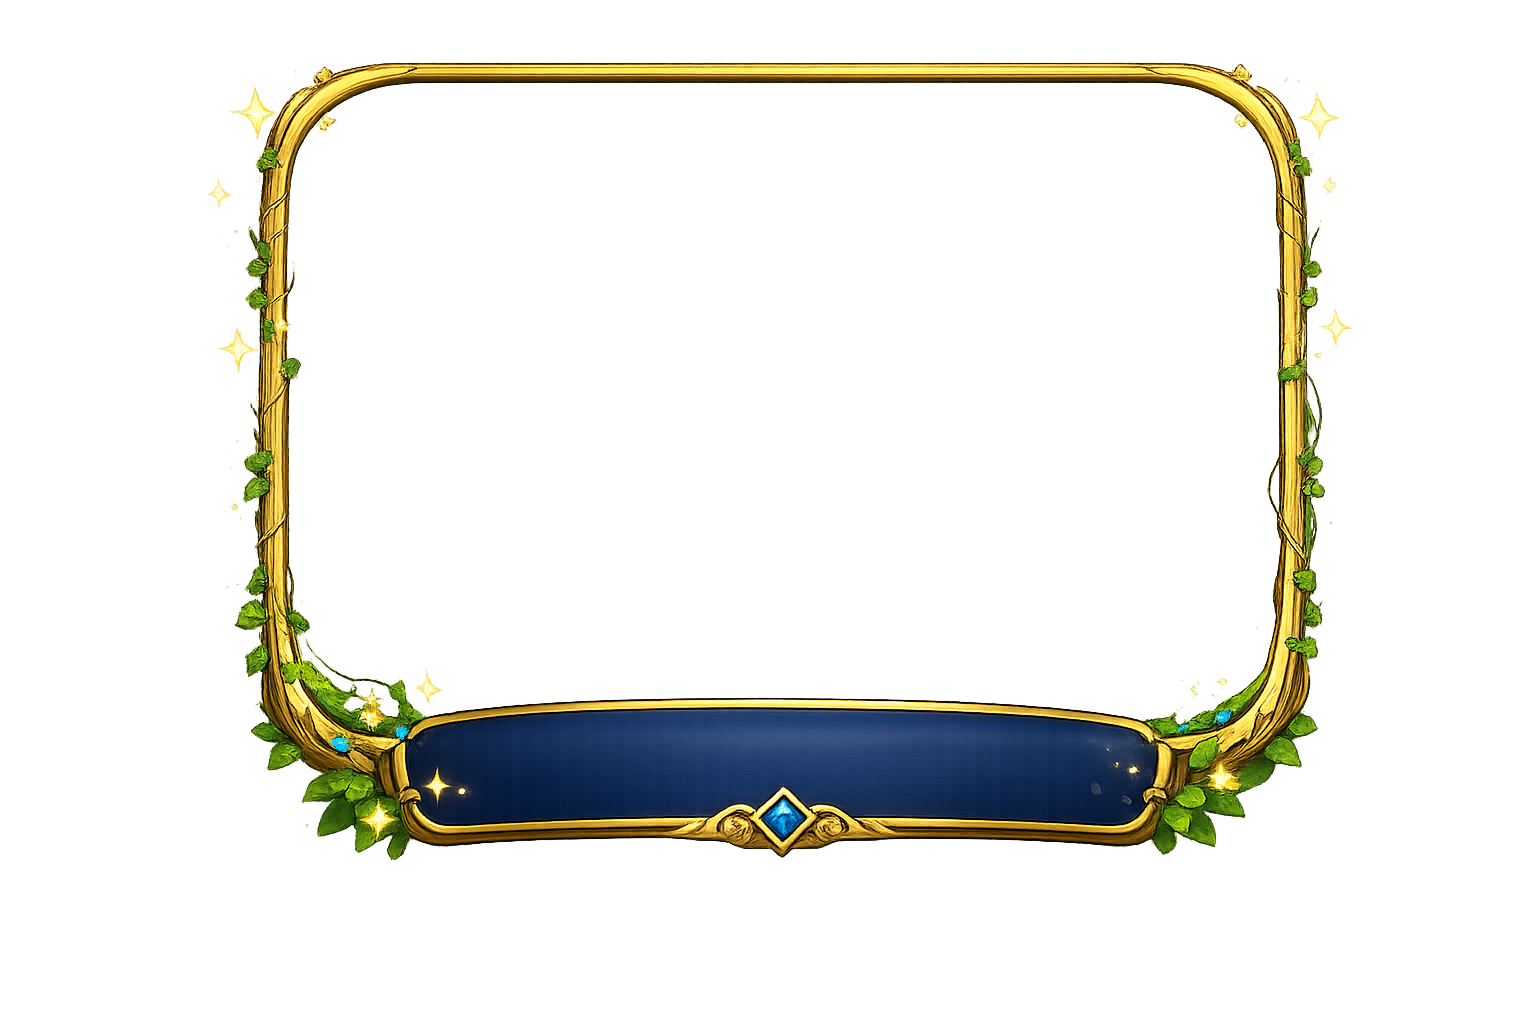
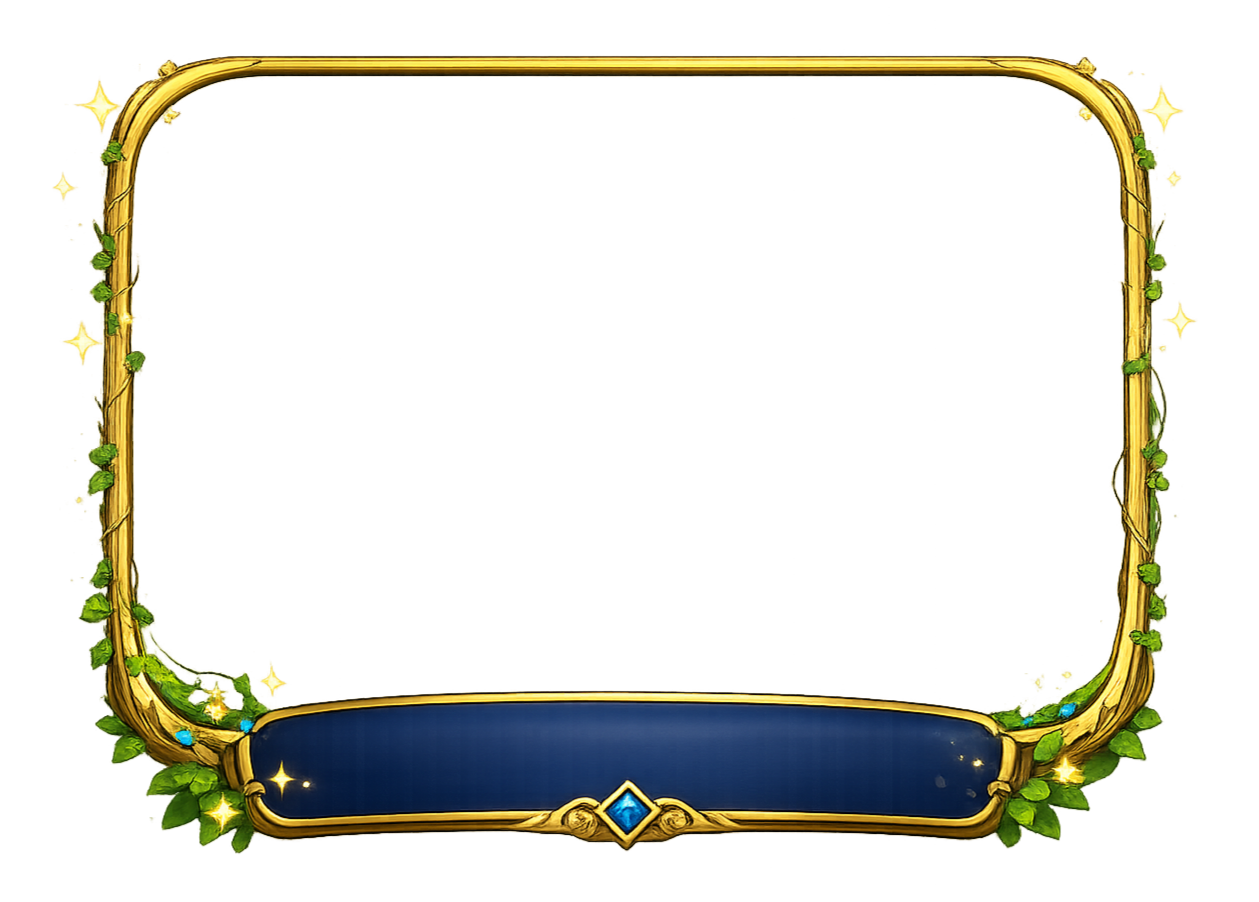
committee page finalize

Changed region(s): [[0.031, 0.0621, 0.9603, 0.9623]]

diff --git a/app/committee/components/MemberCard.tsx b/app/committee/components/MemberCard.tsx
@@ -2,7 +2,25 @@
 
 import Image from "next/image";
 import { motion } from "framer-motion";
+import { useEffect, useState } from "react";
 import type { CommitteeMember } from "../committeeConfig";
+
+/** Tracks whether the viewport is below Tailwind's `sm` breakpoint (640px) */
+function useIsMobile() {
+  const [isMobile, setIsMobile] = useState(
+    () => typeof window !== "undefined" && window.matchMedia("(max-width: 639px)").matches
+  );
+
+  useEffect(() => {
+    const mq = window.matchMedia("(max-width: 639px)");
+    const update = () => setIsMobile(mq.matches);
+    update();
+    mq.addEventListener("change", update);
+    return () => mq.removeEventListener("change", update);
+  }, []);
+
+  return isMobile;
+}
 
 interface MemberCardProps {
   member: CommitteeMember;
@@ -81,9 +99,11 @@ interface ExpandedCardProps {
 }
 
 export function ExpandedCard({ member, index, topicIndex, onClose }: ExpandedCardProps) {
+  const isMobile = useIsMobile();
+
   return (
     <motion.div
-      className="fixed inset-0 z-50 flex items-center justify-center"
+      className="fixed inset-0 z-50 flex flex-col sm:flex-row items-center justify-center gap-6 sm:gap-0 overflow-y-auto py-8 sm:py-0"
       initial={{ opacity: 0 }}
       animate={{ opacity: 1 }}
       exit={{ opacity: 0 }}
@@ -131,10 +151,10 @@ export function ExpandedCard({ member, index, topicIndex, onClose }: ExpandedCar
 
         {/* ── Name on blue banner ── */}
         <div
-          className="absolute left-0 right-0 flex items-center justify-center"
-          style={{ bottom: "17.5%", height: "7%" }}
+          className="absolute left-0 right-0 flex items-end justify-center"
+          style={{ bottom: "17.5%", minHeight: "7%" }}
         >
-          <span className="card-banner-text text-white text-[20px] sm:text-md md:text-xl font-bold truncate px-4">
+          <span className="card-banner-text text-white text-[20px] sm:text-md md:text-xl font-bold text-center px-4 w-full min-w-0 whitespace-normal break-words">
             {member.name}
           </span>
         </div>
@@ -148,9 +168,12 @@ export function ExpandedCard({ member, index, topicIndex, onClose }: ExpandedCar
         <Sparkles />
       </motion.div>
       {/* ── Status card (next to the member card) ── */}
-        <div
-          className="relative flex-shrink-0"
-          style={{ width: "min(340px, 42vw)", aspectRatio: "3 / 4.2" }}
+        <motion.div
+          className="relative flex-shrink-0 z-0 w-[min(340px,80vw)] sm:w-[min(340px,42vw)]"
+          style={{ aspectRatio: "3 / 4.2" }}
+          initial={isMobile ? { opacity: 0, y: -280 } : { opacity: 0, x: -320 }}
+          animate={isMobile ? { opacity: 1, y: 0 } : { opacity: 1, x: 0 }}
+          transition={{ delay: 0.4, duration: 0.6, ease: [0.4, 0, 0.2, 1] }}
         >
           {/* Status card background image */}
           <Image
@@ -166,36 +189,36 @@ export function ExpandedCard({ member, index, topicIndex, onClose }: ExpandedCar
           <div className="absolute inset-0" style={{ fontFamily: "'Inter', sans-serif" }}>
             <span
               className="expanded-detail-text absolute text-white text-sm sm:text-base md:text-lg font-bold leading-tight truncate"
-              style={{ top: "24.5%", left: "22.5%", right: "10%" }}
+              style={{ top: "21.5%", left: "22.5%", right: "10%" }}
             >
               Full Name
             </span>
             <span
-              className="expanded-detail-text absolute text-white text-sm sm:text-base md:text-lg font-bold leading-tight truncate"
-              style={{ top: "33%", left: "17%", right: "15%" }}
+              className="expanded-detail-text absolute text-white text-sm sm:text-base md:text-lg font-bold leading-tight whitespace-normal break-words"
+              style={{ top: "42%", left: "17%", right: "15%", transform: "translateY(-100%)" }}
             >
               {member.full_name}
             </span>
             <span
               className="expanded-detail-text absolute text-white text-sm sm:text-base md:text-lg font-bold leading-tight truncate"
-              style={{ top: "44%", left: "22%", right: "10%" }}
+              style={{ top: "54.5%", left: "22%", right: "10%" }}
             >
               Course/Year
             </span>
             <span
               className="expanded-detail-text absolute text-white text-sm sm:text-base md:text-lg font-bold leading-tight truncate"
-              style={{ top: "59%", left: "17%", right: "10%" }}
+              style={{ top: "62%", left: "17%", right: "10%" }}
             >
               {member.year_course}
             </span>
             <span
               className="expanded-detail-text absolute text-white text-sm sm:text-base md:text-lg font-bold leading-tight truncate"
-              style={{ top: "70.5%", left: "22.5%", right: "10%" }}
+              style={{ top: "73.5%", left: "22.5%", right: "10%" }}
             >
               {member.og}
             </span>
           </div>
-        </div>
+        </motion.div>
     </motion.div>
   );
 }

diff --git a/app/committee/components/TopicBanner.tsx b/app/committee/components/TopicBanner.tsx
@@ -40,11 +40,11 @@ export default function TopicBanner({
   onNext,
 }: TopicBannerProps) {
   return (
-    <div className="relative flex items-center justify-center gap-2 sm:gap-6 md:gap-10">
+    <div className="relative flex items-center justify-center gap-0">
       {/* ── Left Arrow ── */}
       <button
         onClick={onPrev}
-        className="topic-arrow z-20 flex-shrink-0 text-stone-900 hover:text-amber-800"
+        className="topic-arrow z-20 flex-shrink-0 text-white hover:text-amber-300"
         aria-label="Previous topic"
       >
         <svg
@@ -52,7 +52,7 @@ export default function TopicBanner({
           height="40"
           viewBox="0 0 40 40"
           fill="none"
-          className="w-8 h-8 sm:w-10 sm:h-10"
+          className="w-6 h-6 sm:w-10 sm:h-10"
         >
           <path
             d="M25 8L13 20L25 32"
@@ -68,8 +68,8 @@ export default function TopicBanner({
       <div
         className="relative flex-shrink-0"
         style={{
-          width: "min(560px, 65vw)",
-          aspectRatio: "16 / 10.5",
+          width: "min(720px, calc(100vw - 64px))",
+          aspectRatio: "1259 / 902",
         }}
       >
         <AnimatePresence mode="wait" custom={direction}>
@@ -84,20 +84,25 @@ export default function TopicBanner({
             className="absolute inset-0"
           >
             {/* ── Frame overlay (on top) ── */}
-            <Image
-              src="/images/committee_grp.png"
-              alt=""
-              fill
-              sizes="(max-width: 640px) 65vw, 560px"
-              className="object-contain pointer-events-none select-none z-10"
-              draggable={false}
-              priority
-            />
+            <div
+              className="absolute pointer-events-none z-10"
+              style={{ top: "6%", left: "6%", right: "6%", bottom: "6%" }}
+            >
+              <Image
+                src="/images/committee_grp.png"
+                alt=""
+                fill
+                sizes="(max-width: 640px) 65vw, 560px"
+                className="object-contain pointer-events-none select-none"
+                draggable={false}
+                priority
+              />
+            </div>
 
             {/* ── Group photo (behind the frame) ── */}
             <div
-              className="absolute overflow-hidden rounded-lg"
-              style={{ top: "8%", left: "19%", right: "17%", bottom: "28%" }}
+              className="absolute overflow-hidden rounded-xl"
+              style={{ top: "13.5%", left: "15.5%", right: "15%", bottom: "23%" }}
             >
               <Image
                 src={topic.group_image}
@@ -111,9 +116,9 @@ export default function TopicBanner({
             {/* ── Title on blue banner ── */}
             <div
               className="absolute left-0 right-0 flex items-center justify-center z-20"
-              style={{ bottom: "21%", height: "10%", transform: "translateX(7.5px)" }}
+              style={{ bottom: "16%", height: "10%", right: "2%", transform: "translateX(7.5px)" }}
             >
-              <h2 className="topic-title text-white text-[10px] sm:text-[15px] md:text-xl font-bold uppercase -translate-x-1 sm:translate-x-0">
+              <h2 className="topic-title text-white text-sm sm:text-xl md:text-2xl font-bold uppercase -translate-x-1 sm:translate-x-0">
                 {topic.title}
               </h2>
             </div>
@@ -121,7 +126,7 @@ export default function TopicBanner({
         </AnimatePresence>
 
         {/* ── Topic indicators (dots) ── */}
-        <div className="absolute -bottom-6 left-1/2 -translate-x-1/2 flex gap-1.5 z-20">
+        <div className="absolute bottom-0 left-1/2 -translate-x-1/2 flex gap-1.5 z-20">
           {Array.from({ length: totalTopics }).map((_, i) => (
             <div
               key={i}
@@ -138,7 +143,7 @@ export default function TopicBanner({
       {/* ── Right Arrow ── */}
       <button
         onClick={onNext}
-        className="topic-arrow z-20 flex-shrink-0 text-stone-900 hover:text-amber-800"
+        className="topic-arrow z-20 flex-shrink-0 text-white hover:text-amber-300"
         aria-label="Next topic"
       >
         <svg
@@ -146,7 +151,7 @@ export default function TopicBanner({
           height="40"
           viewBox="0 0 40 40"
           fill="none"
-          className="w-8 h-8 sm:w-10 sm:h-10"
+          className="w-6 h-6 sm:w-10 sm:h-10"
         >
           <path
             d="M15 8L27 20L15 32"

diff --git a/app/committee/committeeConfig.ts b/app/committee/committeeConfig.ts
@@ -45,13 +45,13 @@ export const committeeTopics: CommitteeTopic[] = [
     name: "Sheryn",
     full_name: "Sheryn Wu",
     year_course: "MSE/4",
-    og: "OG 5",
+    og: "OG 1",
     first_image: "/images/committee/mc/TOPS/SHERYN1.jpg",
     second_image: "/images/committee/mc/TOPS/SHERYN2.jpg",
   },
   {
     name: "Via",
-    full_name: "Agatha Via",
+    full_name: "Agatha Kristanavia",
     year_course: "CBC/4",
     og: "OG 7",
     first_image: "/images/committee/mc/tops/VIA1.jpg",
@@ -67,7 +67,7 @@ export const committeeTopics: CommitteeTopic[] = [
   },
   {
     name: "Olin",
-    full_name: "Caroline Wijaya",
+    full_name: "Caroline Wijaya Santoso",
     year_course: "MSE/4",
     og: "OG 4",
     first_image: "/images/committee/mc/tops/CAROLINE1.jpg",
@@ -77,7 +77,7 @@ export const committeeTopics: CommitteeTopic[] = [
     name: "Sharon",
     full_name: "Gabriella Sharon Gunawan",
     year_course: "ME/3",
-    og: "OG 3",
+    og: "OG 2",
     first_image: "/images/committee/mc/bfm/SHARON1.jpg",
     second_image: "/images/committee/mc/bfm/SHARON2.jpg",
   },
@@ -91,7 +91,7 @@ export const committeeTopics: CommitteeTopic[] = [
   },
   {
     name: "Michelle",
-    full_name: "Michelle Hung",
+    full_name: "Michelle Priscilla Hung",
     year_course: "CBE/3",
     og: "OG 4",
     first_image: "/images/committee/mc/bfm/MICHELLE1.jpg",
@@ -99,7 +99,7 @@ export const committeeTopics: CommitteeTopic[] = [
   },
   {
     name: "Judah",
-    full_name: "Judah Primeldi",
+    full_name: "Judah Valiant Primeldi",
     year_course: "CBE/3",
     og: "OG 3",
     first_image: "/images/committee/mc/gl/JUDAH1.jpg",
@@ -125,7 +125,7 @@ export const committeeTopics: CommitteeTopic[] = [
     name: "Chloe",
     full_name: "Chloe Atipinati Djohan",
     year_course: "CSC/3",
-    og: "OG 3",
+    og: "OG 2",
     first_image: "/images/committee/mc/polog/CHLOE1.jpg",
     second_image: "/images/committee/mc/polog/CHLOE2.jpg",
   },
@@ -241,7 +241,7 @@ export const committeeTopics: CommitteeTopic[] = [
     members: [
   {
     name: "Mikael",
-    full_name: "Mikael Ernest",
+    full_name: "Mikael Ernest Susanto",
     year_course: "CSC/2",
     og: "OG 1",
     first_image: "/images/committee/gl/MIKAEL1.jpg",
@@ -273,7 +273,7 @@ export const committeeTopics: CommitteeTopic[] = [
   },
   {
     name: "Nanda",
-    full_name: "Dhammanananda Justin",
+    full_name: "Dhammanananda Justin Yu",
     year_course: "BSB/2",
     og: " OG 3",
     first_image: "/images/committee/gl/Dhammananda1.jpg",
@@ -305,7 +305,7 @@ export const committeeTopics: CommitteeTopic[] = [
   },
   {
     name: "Panji",
-    full_name: "Panji Ndika Saputra Wijaya",
+    full_name: "Panji Andika Saputra Wijaya",
     year_course: "ACC/2",
     og: "OG 5",
     first_image: "/images/committee/gl/PANJI1.jpg",
@@ -345,7 +345,7 @@ export const committeeTopics: CommitteeTopic[] = [
   },
   {
     name: "Kevina",
-    full_name: "Kevina Arin Lucelta",
+    full_name: "Kevina Arin Lucetta",
     year_course: "DSAI/2",
     og: "OG 7",
     first_image: "/images/committee/gl/KEVINA1.jpg",
@@ -511,7 +511,7 @@ export const committeeTopics: CommitteeTopic[] = [
   },
   {
     name: "Bernardinus",
-    full_name: "Bernardinus Gabriel",
+    full_name: "Bernardinus Gabriel Hermawan",
     year_course: "IEM/2",
     og: "OG 2",
     first_image: "/images/committee/ppit/BERNARDINUS1.jpg",
@@ -551,7 +551,7 @@ export const committeeTopics: CommitteeTopic[] = [
   },
   {
     name: "Syidan",
-    full_name: "Rasyidan Naja",
+    full_name: "Rasyidan Naja Asardi",
     year_course: "EEE/4",
     og: "OG 1",
     first_image: "/images/committee/ppit/RASYIDAN1.jpg",

diff --git a/app/leaderboard/page.tsx b/app/leaderboard/page.tsx
@@ -110,7 +110,7 @@ const SLOT_W = 18.8; // slot width as % of the frame image
 
 function DayTabs({ activeDay, onChange }: DayTabsProps) {
   return (
-    <div className="relative mx-auto w-[94%] max-w-[640px] md:w-[72%]">
+    <div className="relative mx-auto w-[70%] max-w-[480px] md:w-[54%]">
       <div className="relative w-full aspect-[2722/1536]">
         {/* Connected stone/gold bar */}
         <Image src="/images/day_tabs_frame.png" alt="Day selector" fill className="object-contain" priority />
@@ -290,12 +290,15 @@ export default function Page() {
   const restRows = rankingList.slice(3);
 
   return (
-    <div
-      className="flex min-h-screen w-screen items-center justify-center overflow-hidden bg-cover bg-center py-10"
-      style={{ backgroundImage: "url('/images/leaderboard_bg.png')" }}
-    >
-      <div className="relative w-[96vw] max-w-[900px] md:w-[80vw] text-[#5c3a1e]">
-        <h1 className="-mt-37 mb-6 text-center text-3xl font-extrabold tracking-wide text-white drop-shadow-[0_2px_6px_rgba(0,0,0,0.6)] md:mt-0 md:mb-6">
+    <div className="relative min-h-screen w-screen overflow-hidden">
+      <div
+        className="absolute inset-0 bg-cover bg-center opacity-60 md:opacity-100"
+        style={{ backgroundImage: "url('/images/leaderboard_bg.png')" }}
+      />
+
+      <div className="relative flex min-h-screen w-screen items-start justify-center pt-10 pb-10 md:pt-14">
+        <div className="relative w-[96vw] max-w-[900px] md:w-[80vw] text-[#5c3a1e]">
+        <h1 className="mb-2 text-center text-3xl font-extrabold tracking-wide text-white drop-shadow-[0_2px_6px_rgba(0,0,0,0.6)]">
           LEADERBOARD
         </h1>
 
@@ -320,14 +323,16 @@ export default function Page() {
 
         {!loading && !err && totalCount > 0 && (
           <>
-            <DayTabs activeDay={activeDay} onChange={setActiveDay} />
+            <div className="-mt-10">
+              <DayTabs activeDay={activeDay} onChange={setActiveDay} />
+            </div>
 
             {rankingList.length === 0 ? (
-              <div className="mt-24 text-center text-white/80 tracking-widest text-sm md:mt-16">
+              <div className="mt-20 text-center text-white/80 tracking-widest text-sm md:mt-6">
                 No rankings for Day {activeDay} yet
               </div>
             ) : (
-              <div className="relative mt-36 aspect-[1320/880] w-full text-[2.1vw] md:mt-28 md:text-[0.8vw] font-extrabold">
+              <div className="relative mt-20 aspect-[1320/880] w-full text-[2.1vw] md:mt-6 md:text-[0.8vw] font-extrabold">
                 {/* Podium + winner cards — the whole group is shrunk (w-[88%]) and nudged
                     down (top-[8%]) so the 1st-place card doesn't run off the top. Card
                     positions below are relative to THIS wrapper, so they track the podium. */}
@@ -435,6 +440,7 @@ export default function Page() {
             )}
           </>
         )}
+      </div>
       </div>
     </div>
   );